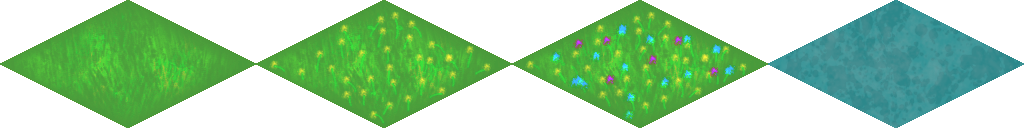
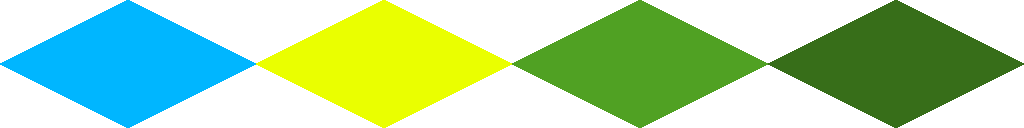
world generation represents an 'island' layout

diff --git a/src/world/World.cpp b/src/world/World.cpp
@@ -6,10 +6,12 @@
 #include "../graphics/GraphicsManager.h"
 #include "../input/InputHandler.h"
 
-World::World(int w, int h)
+class Instance;
+
+World::World()
 {
-    m_world_w = w;
-    m_world_h = h;
+    m_world_w = 16;
+    m_world_h = 32;
 
     // load texture and create sprites from it
     TheGfxManager::Instance()->addTexture("../res/test.png", "ground_tiles");    // load texture
@@ -39,10 +41,27 @@ void World::generate()
             tile_x_pos = ( j * tile_w) + x_offset;
             tile_y_pos = i * tile_h / 2;
 
-            // add a new tile to vector m_tiles
-            m_tiles[i][j] = new Tile( new LoaderParams(sf::Vector2f(tile_x_pos, tile_y_pos), tile_w, tile_h,
-                                    TheGfxManager::Instance()->getSprites("tiles"), false,
-                                    Game::Instance()->getRandom(0,3)));
+            if(j == 0 || i == 0 || i == 1 || j == m_world_w - 1 || i == m_world_h - 1 || i == m_world_h - 2)
+            {
+                // outer tiles are water
+                m_tiles[i][j] = new Tile( new LoaderParams(sf::Vector2f(tile_x_pos, tile_y_pos), tile_w, tile_h,
+                                                           TheGfxManager::Instance()->getSprites("tiles"), false,
+                                                           0), WATER);
+            }
+            else if(j == 1 || i == 2 || i == 3 || j == m_world_w-2 || i == m_world_h - 3 || i == m_world_h - 4)
+            {
+                // penultimate to outer are sand
+                m_tiles[i][j] = new Tile( new LoaderParams(sf::Vector2f(tile_x_pos, tile_y_pos), tile_w, tile_h,
+                                                           TheGfxManager::Instance()->getSprites("tiles"), false,
+                                                           0), SAND);
+            }
+            else
+            {
+                // all other tiles are grass or grass dark
+                m_tiles[i][j] = new Tile( new LoaderParams(sf::Vector2f(tile_x_pos, tile_y_pos), tile_w, tile_h,
+                                                           TheGfxManager::Instance()->getSprites("tiles"), false,
+                                                           0), Game::Instance()->getRandom(2,3));
+            }
         }
     }
 }

diff --git a/src/state/PlayState.cpp b/src/state/PlayState.cpp
@@ -36,14 +36,8 @@ void PlayState::render()
 
 bool PlayState::onEnter()
 {
-    // variables to make world only as wide and high as the screen
-    int w = Game::Instance()->getRenderWindow()->getSize().x / 256; // 256 is tile width
-    int h = (Game::Instance()->getRenderWindow()->getSize().y / 128) * 2; // 128 is tile height (multiplied by 2 due to isometric depth)
-    w = 50;
-    h = 200;
-
     // create a new world
-    m_world = new World(w, h);
+    m_world = new World();
 
     // add the player
     TheGfxManager::Instance()->addTexture("../res/player.png", "player_sheet");

diff --git a/src/entity/Tile.cpp b/src/entity/Tile.cpp
@@ -8,8 +8,9 @@
 #include "../Game.h"
 #include "../graphics/GraphicsManager.h"
 
-Tile::Tile(const LoaderParams *pParams) : GameObject(pParams)
+Tile::Tile(const LoaderParams *pParams, int tileType) : GameObject(pParams)
 {
+    m_type = tileType;
 
     int tile_width  = pParams->getWidth();
     int tile_height = pParams->getHeight();
@@ -82,6 +83,8 @@ bool Tile::pointIsRight(sf::Vector2f point1, sf::Vector2f point2, sf::Vector2f c
 
 void Tile::update()
 {
+    m_frame = m_type;
+
     mouseIntersect();
 
     shape.setFillColor(sf::Color::Transparent);

diff --git a/src/entity/Tile.h b/src/entity/Tile.h
@@ -12,7 +12,7 @@
 class Tile : public GameObject
 {
 public:
-    Tile(const LoaderParams* pParams);
+    Tile(const LoaderParams* pParams, int typeType);
 
     virtual void update();
     virtual void render();
@@ -20,6 +20,8 @@ public:
 
     void select() {m_bTileSelected = true;}
     bool mouseOver() {return m_bMouseOver; }
+
+
 
 private:
 
@@ -41,6 +43,7 @@ private:
     bool m_bMouseOver = false;
     bool m_bTileSelected = false;
 
+    int m_type = 0;
 
     // TODO remove
     sf::Color m_yellow_trans = sf::Color(255,255,0,100);

diff --git a/src/world/World.h b/src/world/World.h
@@ -13,7 +13,7 @@ class World
 {
 public:
 
-    World(int w, int h);
+    World();
 
     const int tile_w = 256; // pixel width of single tile
     const int tile_h = 128; // pixel height of single tile
@@ -38,8 +38,14 @@ private:
     int m_bottom;
     int m_top;
 
+    enum TILE_TYPES{
+        WATER = 0,
+        SAND = 1,
+        GRASS = 2,
+        GRASS_DARK = 3
+    };
+
     std::map<int, std::map<int, Tile*>> m_tiles;
-    //std::vector<Tile*> m_tiles;
 
 };
 
